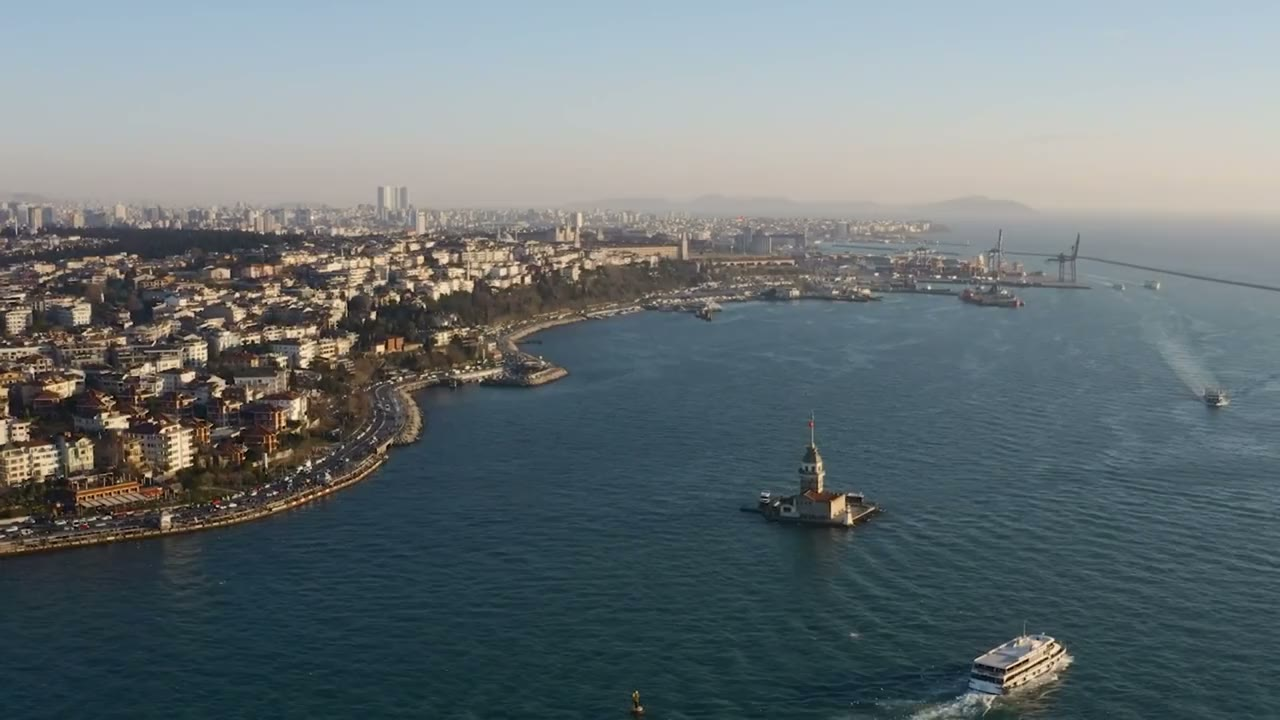
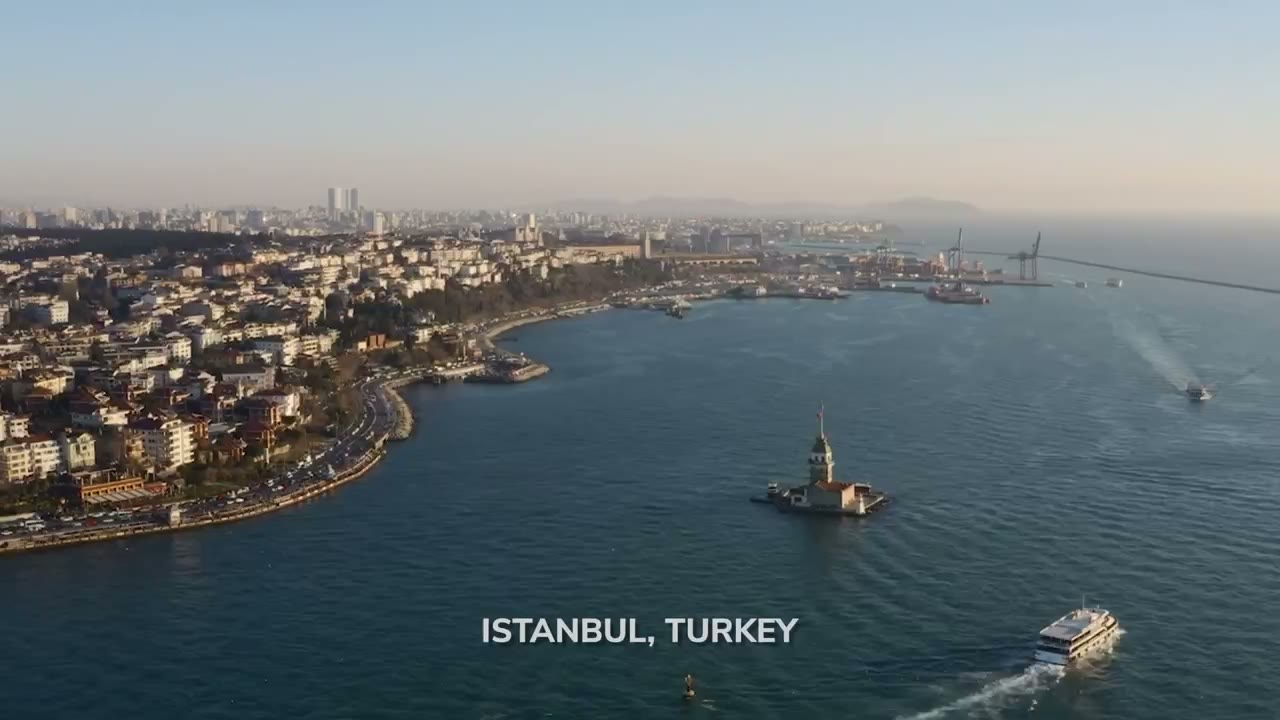
Hero masaüstü videosunu medikal turizm yolculuğuyla yeniden kurgula
- Kaynak Slider-yatay-video.mp4'ten crossfade'li kurgu: İstanbul drone (~3s) → uçak inişi (0:20-23)
  → hastaların havaalanı varışı (0:26-29) → Luxmed kliniğinde hasta (4:59-5:02)
- Yumuşak crossfade (0.4s), 1280x720 H.264, ~1.3MB, sessiz/loop; poster yeni ilk kareden
- Sadece masaüstü (mobil dikey video aynı); metin overlay altında okunur
- Cache-bust: hero-pc.mp4/poster ?v=2, main.js?v=33

diff --git a/protez-bacak-en/index.html b/protez-bacak-en/index.html
@@ -100,7 +100,7 @@
     <!-- ================= HERO — tam ekran video + filtre ================= -->
     <section class="hero">
       <div class="hero__bg">
-        <video id="heroVideo" autoplay muted loop playsinline preload="auto" poster="assets/video/hero-pc-poster.jpg"></video>
+        <video id="heroVideo" autoplay muted loop playsinline preload="auto" poster="assets/video/hero-pc-poster.jpg?v=2"></video>
       </div>
       <div class="hero__overlay"></div>
 
@@ -704,6 +704,6 @@
     </a>
   </nav>
 
-  <script src="js/main.js?v=24"></script>
+  <script src="js/main.js?v=33"></script>
 </body>
 </html>

diff --git a/protez-bacak-en/js/main.js b/protez-bacak-en/js/main.js
@@ -11,8 +11,8 @@
   function loadHeroVideo() {
     if (!heroVideo) return;
     var desktop = mqDesktop.matches;
-    var src = desktop ? 'assets/video/hero-pc.mp4' : 'assets/video/hero-mobile.mp4';
-    var poster = desktop ? 'assets/video/hero-pc-poster.jpg' : 'assets/video/hero-mobile-poster.jpg';
+    var src = desktop ? 'assets/video/hero-pc.mp4?v=2' : 'assets/video/hero-mobile.mp4';
+    var poster = desktop ? 'assets/video/hero-pc-poster.jpg?v=2' : 'assets/video/hero-mobile-poster.jpg';
     if (heroVideo.getAttribute('data-current') === src) return;
     heroVideo.setAttribute('data-current', src);
     heroVideo.setAttribute('poster', poster);